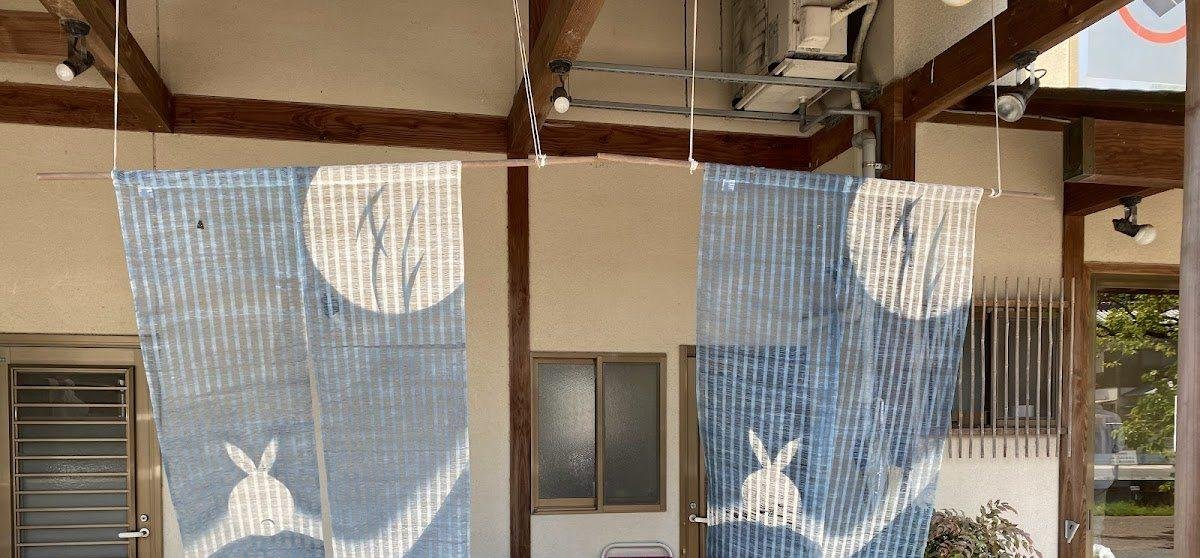
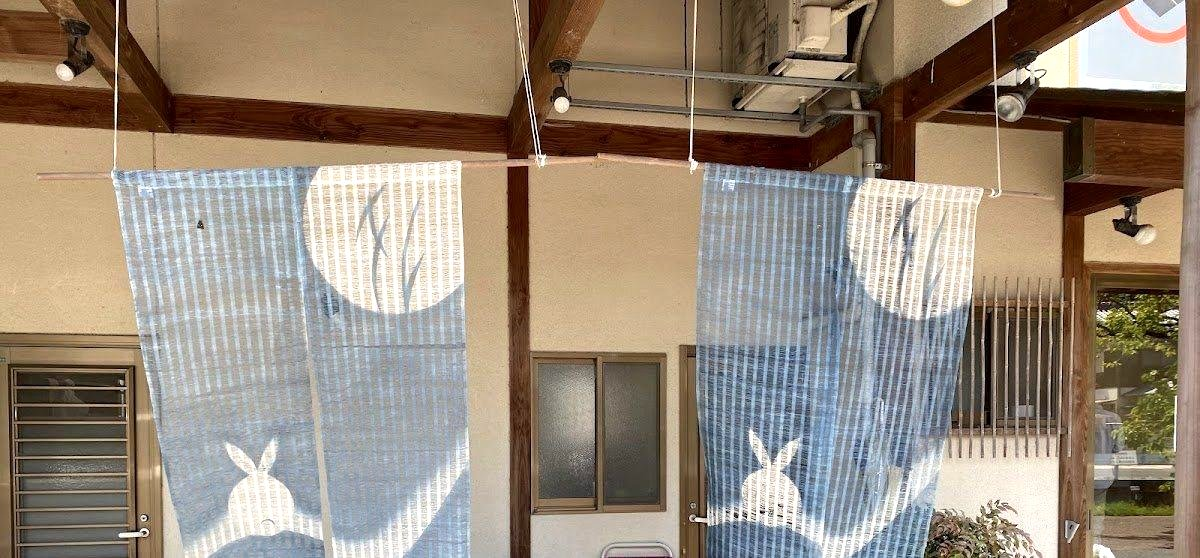
Polish Hair's header text and penguin copy; brighten band photo; drop preview page

diff --git a/hairs-america/index.html b/hairs-america/index.html
@@ -232,7 +232,7 @@
   <div class="header-inner">
     <a class="logo" href="./">
       <span class="en latin">HAIR'S AMERICA</span>
-      <span class="jp">ヘアーズアメリカ ／ 今治市北日吉町</span>
+      <span class="jp">ヘアーズアメリカ</span>
     </a>
     <nav class="nav">
       <a href="#hours">営業時間</a>
@@ -367,7 +367,7 @@
       <div class="sec-label">LANDMARK</div>
       <h2>目印は、通りに立つ<br />ペンギンです。</h2>
       <p>
-        北日吉町の通りから見える、ペンギンの看板。バーバーポールと一緒に、
+        北日吉町の通りから見える、ペンギンの看板。
         この場所の目印になっています。初めての方も、この子を探して来てください。
       </p>
       <div class="sign-badge">
